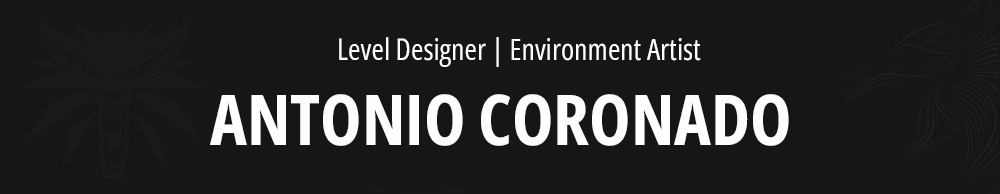
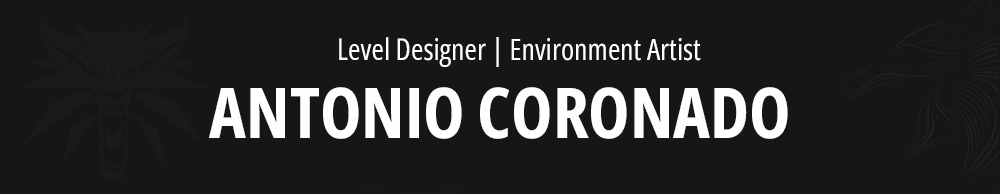
Update header v3

Changed region(s): [[0.186, 0.433, 0.806, 0.7732]]

diff --git a/index.html b/index.html
@@ -13,7 +13,7 @@
 		<div class="content">
 			<center>
 				
-				<img src="main/Game Designer.png" alt="Antonio Coronado - Game Designer" id="header">
+				<img src="Header.png" alt="Antonio Coronado - Game Designer" id="header">
 
 				
 								
